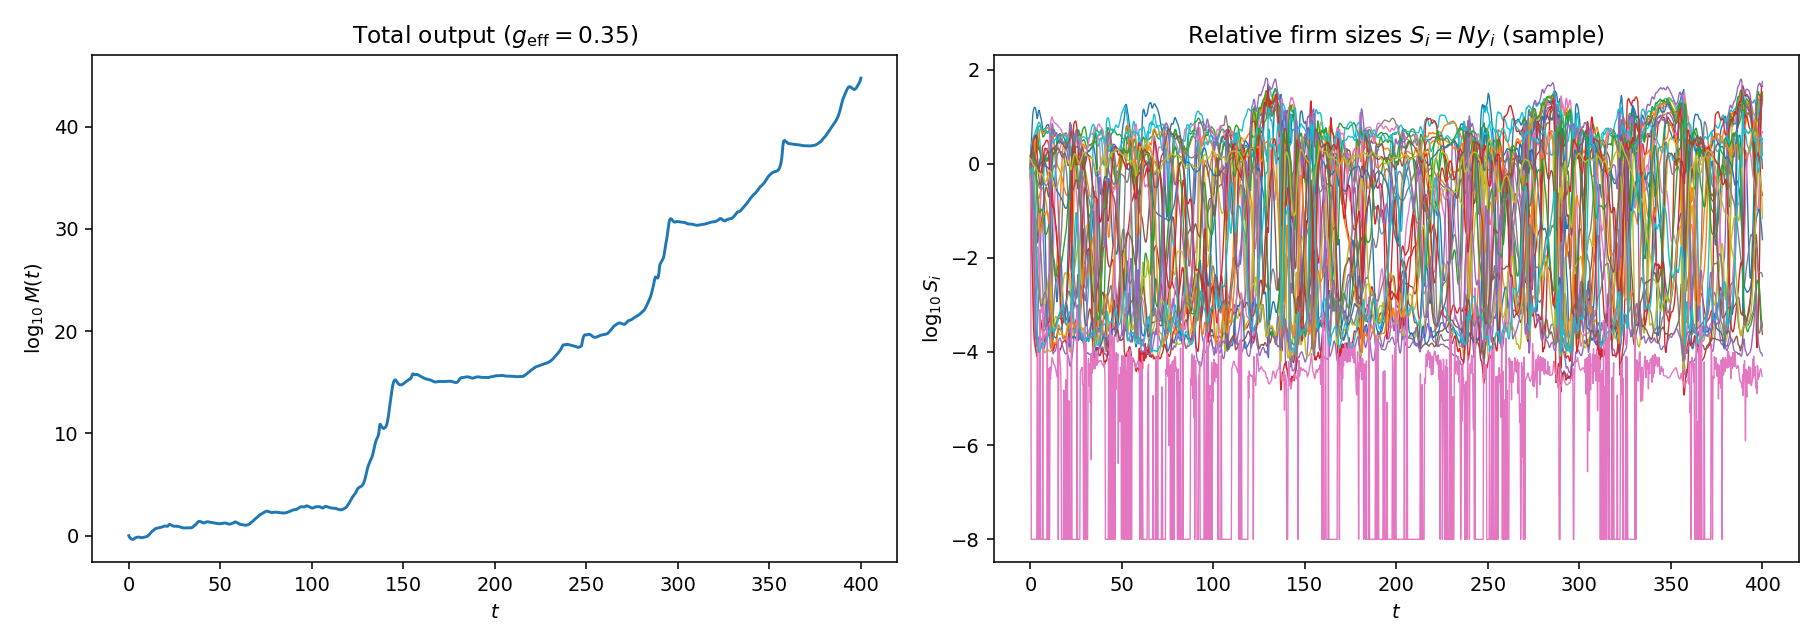
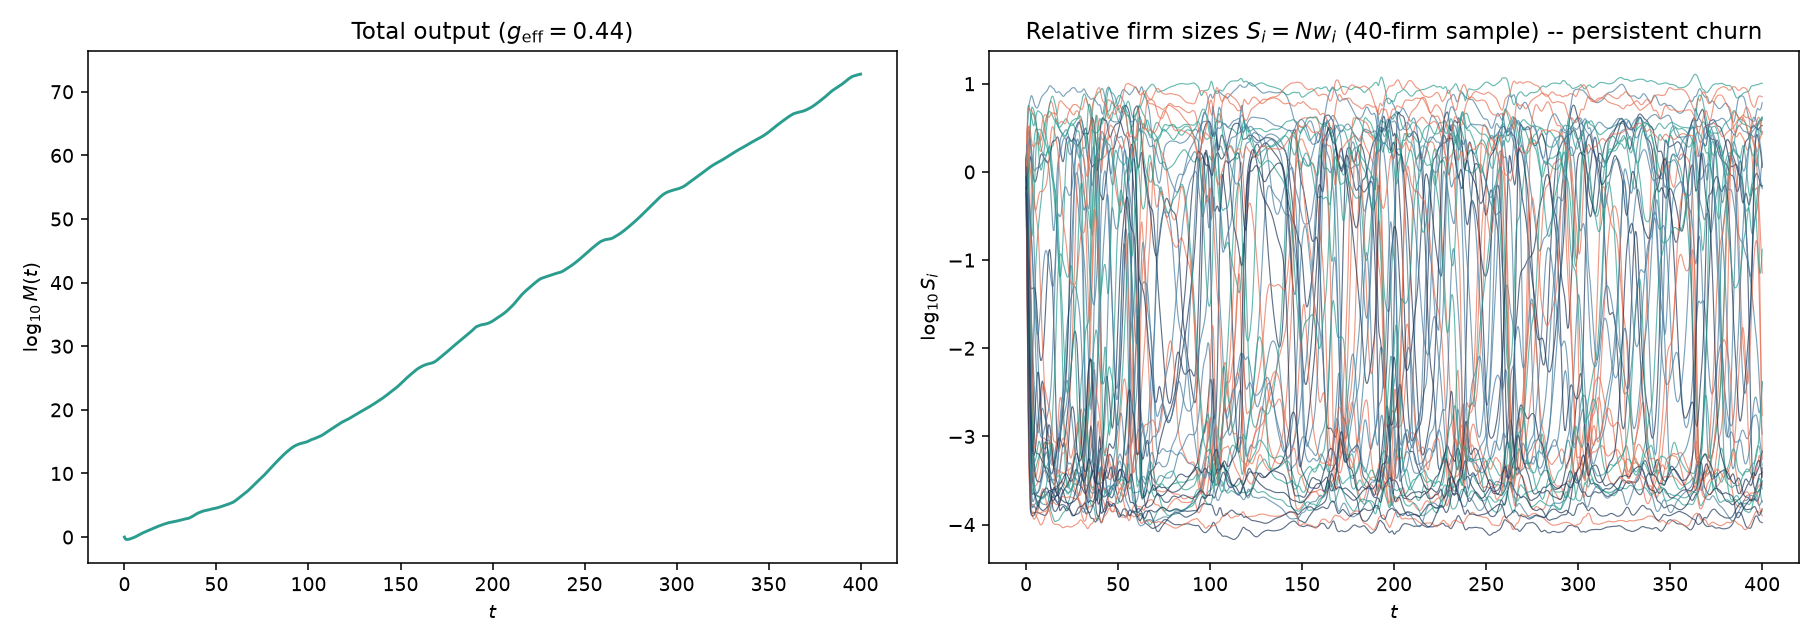
feat(thesis): Fig 2.2 is now the relative-glv own-degree run
Single own-degree run N=3000 (verbatim story.ipynb live-simulation cell),
replacing the mean-degree ch4_plots version. Caption N->3000; FIGURES.md
points at the relative-glv generator (own-degree).

diff --git a/thesis/chapters/model.tex b/thesis/chapters/model.tex
@@ -1,199 +1,193 @@
 \chapter{The model}
 \label{chap:growing}
 
-We model the economy as a network of interacting firms evolving by Generalized
-Lotka--Volterra dynamics. Each firm $i$ carries a size $x_i \ge 0$ that grows
-logistically and is coupled to the others through a signed interaction matrix,
+We model the economy as a network of interacting firms whose sizes evolve by Generalized
+Lotka--Volterra dynamics. The standard form of these dynamics cannot represent a growing
+economy, and this chapter builds the model that can by changing the standard form one step at a
+time, fixing each defect as it appears. The result is then analysed in
+Section~\ref{sec:model-phases}, where we locate the growing, fluctuating regime in which the
+firm-growth statistics of Chapter~\ref{chap:firmgrowth} are measured.
+
+\section{From Lotka--Volterra to the relative model}
+\label{sec:relative-model}
+
+We take as our starting point the Generalized Lotka--Volterra (GLV) system. Each firm $i$
+carries a size $x_i \ge 0$ that grows logistically and is coupled to the others through a signed
+interaction matrix,
 \begin{equation}
     \dot{x}_i = x_i \left( 1 - x_i + (Wx)_i \right),
     \label{eq:abs-glv}
 \end{equation}
-with $W_{ij} = A_{ij}\,\alpha_{ij}$ on a sparse configuration-model graph and
-$\alpha_{ij} = \mu/C + (\sigma/\sqrt{C})\,z_{ij}$, so that $\mu$ sets the mean
-interaction, cooperative for $\mu > 0$ and competitive for $\mu < 0$, and $\sigma$ its
-disorder.
+with $W_{ij} = A_{ij}\,\alpha_{ij}$ on a sparse configuration-model graph. Here $A_{ij}$ is the
+adjacency matrix of the graph, $1$ where firms $i$ and $j$ are connected and $0$ otherwise, and
+$C$ is the mean degree. The coupling strengths are
+$\alpha_{ij} = \mu/C + (\sigma/\sqrt{C})\,z_{ij}$, where the $z_{ij}$ are independent standard
+Gaussian variables, drawn once for each graph and then held fixed, the quenched disorder of the
+model. So $\mu$ sets the mean interaction, cooperative for $\mu > 0$ and competitive for
+$\mu < 0$, and $\sigma$ its disorder.
 
-Equation~\eqref{eq:abs-glv} cannot serve as it stands as a model of a growing economy,
-for two reasons. First, it carries an absolute scale of size that an economy does not
-have: the self-limitation $-x_i$ caps an isolated firm at $x_i = 1$, and the quadratic
-interaction fixes once and for all the size at which growth, competition and
-self-limitation balance. A real economy has no such reference size, its output having
-grown by orders of magnitude over two centuries while the distribution of firm sizes and
-the statistics of their growth stayed essentially stationary, so the dynamics should be
-invariant under a rescaling $x \to c\,x$ of the whole economy, which \eqref{eq:abs-glv}
-is not. Held at its cooperative critical point the absolute model grows without bound,
-but through a finite-time blow-up of the total abundance rather than steady growth
-(Appendix~\ref{chap:rescaling}). Second, even there it delivers only one of the two
-firm-growth facts: it reproduces the fat-tailed growth-rate distribution on
-heterogeneous graphs, but its size--variance relation is not a stationary law, only a
-transient traced out as an arbitrary initial condition relaxes onto the critical
-attractor, after which every growth rate vanishes (Appendix~\ref{chap:results}).
-Recovering a stationary size--variance law needs a state that keeps fluctuating rather
-than relaxing.
+Equation~\eqref{eq:abs-glv} cannot serve as it stands, and it fails for two reasons. First, it carries an absolute scale of size that an
+economy does not have. The self-limitation $-x_i$ caps an isolated firm at $x_i = 1$, and the
+quadratic interaction fixes once and for all the size at which growth, competition and
+self-limitation balance. A real economy has no such reference size. Its output has grown by
+orders of magnitude over two centuries while the distribution of firm sizes and the statistics
+of their growth stayed essentially stationary, so the dynamics should be invariant under a
+rescaling $x \to c\,x$ of the whole economy, which \eqref{eq:abs-glv} is not. Held at its
+cooperative critical point the absolute model does grow without bound, but through a finite-time
+blow-up of the total abundance rather than steady growth. Second, even at that point it delivers
+only one of the two firm-growth facts. It reproduces the fat-tailed growth-rate distribution on
+heterogeneous graphs, but its size--variance relation is not a stationary law, only a transient
+traced out as an arbitrary initial condition relaxes onto the critical attractor, after which
+every growth rate vanishes. We need, then, two things the absolute model lacks, invariance under
+rescaling and a state that keeps fluctuating rather than relaxing.
 
-This chapter makes one change to \eqref{eq:abs-glv} that cures both problems at once: we
-let the self-limitation and the interactions act on the size of a firm relative to the
-average firm. The economy then grows exponentially without ever blowing up, and in the
-strongly disordered regime its composition never settles but keeps churning, the
-persistently fluctuating state we need. We measure the two firm-growth facts in that
-state, find both present and stationary, and show that switching off the disorder
-removes them, which places their origin in the interactions themselves.
-
-\section{Relative interactions and steady growth}
-\label{sec:relative-model}
-
-We restore the invariance by letting the self-limitation and the interactions act on the
-abundance of a firm relative to the average firm $m = M/N = \langle x\rangle$ rather than
-on its absolute abundance. Keeping the same interaction matrix $W$, the model becomes
+Both follow from a single change. We let the self-limitation and the interactions act on the
+size of a firm relative to the average firm $m = M/N = \langle x\rangle$ rather than on its
+absolute size. Keeping the same interaction matrix $W$, the model becomes
 \begin{equation}
     \dot{x}_i = x_i \left( 1 - \frac{x_i}{m} + \frac{(Wx)_i}{m} \right),
     \qquad m = \frac{1}{N}\sum_j x_j .
     \label{eq:relative-glv}
 \end{equation}
-The only change from \eqref{eq:abs-glv} is the two factors of $1/m$, but it makes the
-right-hand side homogeneous of degree one in $x$: under $x \to c\,x$ the mean $m$ scales
-in the same way, the ratios $x_i/m$ and $(Wx)_i/m$ are unchanged, and the whole equation
-simply rescales, so that if $x(t)$ is a solution then so is $c\,x(t)$. The economy no
-longer has a preferred size. The change is also the economically natural one: a
-competitor's pressure on firm $i$ is now set by its market share $x_j/m$ rather than by
-its absolute size, and a firm's own crowding is measured against the typical firm rather
-than against a fixed ceiling, so what drives the dynamics is relative standing in the
-market, as it should be. The intrinsic Malthusian rate $1$ is left untouched and remains
-the engine of growth, while the interactions, now made relative, only regulate it. We
-operate at a competitive mean $\mu$ and at a disorder $\sigma$ above the chaotic
-threshold $\sigma_c = \sqrt{2}$ \citep{diederich1989}; the operating point is specified
-with the measurements below.
+The only change from \eqref{eq:abs-glv} is the two factors of $1/m$, but it makes the right-hand
+side homogeneous of degree one in $x$. Under $x \to c\,x$ the mean $m$ scales in the same way,
+the ratios $x_i/m$ and $(Wx)_i/m$ are unchanged, and the whole equation simply rescales, so that
+if $x(t)$ is a solution then so is $c\,x(t)$. The economy no longer has a preferred size. The
+change is also the economically natural one. A competitor's pressure on firm $i$ is now set by
+its market share $x_j/m$ rather than by its absolute size, and a firm's own crowding is measured
+against the typical firm rather than against a fixed ceiling, so what drives the dynamics is
+relative standing in the market. The intrinsic Malthusian rate $1$ is left untouched and remains
+the engine of growth, while the interactions, now made relative, only regulate it.
 
-The disorder normalization deserves writing out, because it is what controls the
-firm-growth statistics below. As introduced above the couplings are normalized by the
-global mean degree $C$; on a heterogeneous graph a second, per-firm choice is available,
-normalizing each firm's couplings by its own degree $k_i$,
-\begin{equation}
-    \alpha_{ij} = \frac{\mu}{C} + \frac{\sigma}{\sqrt{C}}\,z_{ij}
-    \quad\text{(mean degree)},
-    \qquad
-    \alpha_{ij} = \frac{\mu}{k_i} + \frac{\sigma}{\sqrt{k_i}}\,z_{ij}
-    \quad\text{(own degree)},
-    \label{eq:normalizations}
-\end{equation}
-with $z_{ij}$ standard Gaussian and $k_i$ the degree of firm $i$. Under the mean-degree
-normalization a firm's idiosyncratic field grows louder the more competitors it has, its
-variance rising with its degree; the own-degree normalization is the natural per-fan-in
-scaling, in which both the mean pressure and the disorder are shared over a firm's own
-neighbours, so that every firm carries a field of the same variance whatever its
-connectivity. The two coincide on a regular graph, where
-every firm has the mean degree, which is the case the mean-field theory of
-Appendix~\ref{app:dmft} solves; they differ, consequentially, on the heterogeneous graphs
-we use for the measurements. The own-degree normalization reproduces the higher-moment
-structure of the data but gives a size--variance exponent about three times too steep,
-while the global one matches the size--variance magnitude at a finite economy size but
-loses that higher-moment structure, and no single choice gives both. We therefore
-privilege neither: we report the firm-growth statistics under both normalizations and
-treat the trade-off between them as a result in its own right, returning to it in
-Sections~\ref{sec:growing-finite-size} and~\ref{sec:growing-multiscaling}.
-
-The same point appears formally in the equation for the total. Writing $x_i = M y_i$
-with $y$ on the simplex, and using the shorthands of Appendix~\ref{chap:rescaling}, the
-sum of \eqref{eq:relative-glv} over $i$ gives
+Two consequences of this change set up the rest of the model. The first is steady growth. Writing
+$x_i = M y_i$ with $y$ on the simplex and the shorthands
+$y^{\!\top} W y = \sum_{i,j} y_i W_{ij} y_j$, $y^{\!\top} y = \sum_i y_i^2$, the sum of
+\eqref{eq:relative-glv} over $i$ gives
 \begin{equation}
     \dot{M} = M \left[\, 1 + N\big( y^{\!\top} W y - y^{\!\top} y \big)\,\right]
-            \equiv M\, g_{\mathrm{eff}}(y),
+            \equiv M\, g_{\mathrm{eff}}(y).
     \label{eq:Mdot-relative}
 \end{equation}
-where the right-hand side of the absolute model \eqref{eq:app-Mdot} instead carried a
-term in $M^2$, the quadratic feedback responsible for the finite-time singularity.
-Dividing the interactions by $m$ removes one power of $M$: the quadratic term becomes
-linear, and \eqref{eq:Mdot-relative} is the equation of plain exponential growth,
-$M(t) \sim e^{g_{\mathrm{eff}} t}$, with no singularity. In the operating regime
-$g_{\mathrm{eff}}$ settles to a small positive constant, so the economy grows at a steady
-rate over unbounded physical time.
+Summing the absolute model \eqref{eq:abs-glv} instead leaves a right-hand side with a term in
+$M^2$, the quadratic feedback responsible for the finite-time singularity. Dividing the
+interactions by $m$ removes one power of $M$, the quadratic term becomes linear, and
+\eqref{eq:Mdot-relative} is the equation of plain exponential growth,
+$M(t) \sim e^{g_{\mathrm{eff}} t}$, with no singularity. In the regime we work in
+$g_{\mathrm{eff}}$ settles to a small positive constant, so the economy grows at a steady rate
+over unbounded physical time.
 
-The shape obeys, again from \eqref{eq:relative-glv} and the quotient rule,
+The second consequence concerns the shape. From \eqref{eq:relative-glv} and the quotient rule
+the shares obey $\dot{y}_i = y_i ( f_i - \langle f \rangle )$ with the linear fitness
+$f_i = 1 - N y_i + N (Wy)_i$ and $\langle f \rangle = \sum_j y_j f_j = g_{\mathrm{eff}}$. This is
+a replicator equation, the canonical description of frequency-dependent selection, in which a
+firm gains share precisely when its fitness exceeds the market average $\langle f \rangle$, and
+it is the standard correspondence between Lotka--Volterra and replicator dynamics
+\citep{hofbauer81}. Because the relative model does not blow up, it is written in the same
+physical time $t$ in which $M$ grows, with no time rescaling. Above the disorder threshold
+$\sigma_c = \sqrt{2}$ \citep{diederich1989} the replicator flow does not relax to a fixed point
+but stays chaotic, so the growth rates $\dot y_i / y_i = f_i - \langle f\rangle$ never vanish.
+This is the persistently fluctuating state we needed.
+
+The chaotic flow has one feature that has to be controlled. Left to itself it drives some shares
+arbitrarily close to zero, and a share that reaches zero stays there, so diversity erodes and the
+state never becomes stationary. As is standard in the disordered Lotka--Volterra literature
+\citep{bunin2017,roy2020} we add a small immigration term that pulls each share gently toward
+$1/N$, setting a floor of rarity below which a firm cannot fall and preventing exact extinction.
+The shape dynamics we integrate are then
 \begin{equation}
-    \dot{y}_i = y_i \left( f_i - \langle f \rangle \right),
-    \qquad f_i = 1 - N y_i + N (Wy)_i,
-    \qquad \langle f \rangle = \sum_j y_j f_j = g_{\mathrm{eff}},
+    \begin{gathered}
+        \dot{y}_i = y_i \left( f_i - \langle f \rangle \right) + \lambda\!\left( \tfrac{1}{N} - y_i \right), \\
+        f_i = 1 - N y_i + N (Wy)_i,
+        \qquad \langle f \rangle = \sum_j y_j f_j = g_{\mathrm{eff}},
+    \end{gathered}
     \label{eq:replicator}
 \end{equation}
-which is a replicator equation with the linear fitness $f$, the canonical description of
-frequency-dependent selection, in which a firm gains share precisely when its fitness
-exceeds the market average $\langle f \rangle$, and is exactly the correspondence between
-Lotka--Volterra and replicator dynamics used in Appendix~\ref{chap:rescaling}
-\citep{hofbauer81}. Two features distinguish
-\eqref{eq:replicator} from the rescaled dynamics of that appendix. First, it is written
-in physical time $t$, not in a stretched time $\tau$: because the relative model does
-not blow up, no time rescaling is needed, and $M(t)$ grows exponentially in the same
-$t$ in which the firms are observed. Second, in the disordered regime $\sigma > \sigma_c$
-the replicator flow \eqref{eq:replicator} does not relax to a fixed point but remains
-chaotic, so the growth rates $\dot y_i / y_i = f_i - \langle f\rangle$ never vanish.
-This is the persistently fluctuating state identified above as the missing ingredient.
-As in the literature \citep{bunin2017,roy2020} we add a small
-immigration term that pulls each share gently toward $1/N$, which sets a floor of rarity
-and prevents firms from reaching exact extinction; we use a rate $\lambda = 10^{-3}$.
+with a rate $\lambda = 10^{-3}$. The immigration term conserves $\sum_i y_i = 1$, so it leaves
+the growth equation \eqref{eq:Mdot-relative} untouched; in size-space it is the scale-invariant
+influx $\dot{x}_i = x_i ( 1 - x_i/m + (Wx)_i/m ) + \lambda(m - x_i)$, an entry of small firms at a
+rate set by the size of the economy itself.
 
-We integrate \eqref{eq:replicator} together with $\mathrm{d}\ln M/\mathrm{d}t =
-g_{\mathrm{eff}}$ directly in physical time, keeping the shape on the bounded simplex and
-the scale in logarithm so nothing overflows however large $M$ becomes; the explicit
-solver and its cost are specified in Appendix~\ref{app:numerics}.
+One element of the model is still unspecified, the disorder normalization, and it is what
+controls the firm-growth statistics of the next chapter, so we set it out now. On a heterogeneous
+graph the natural per-firm choice normalizes each firm's couplings by its own degree $k_i$,
+\begin{equation}
+    \alpha_{ij} = \frac{\mu}{k_i} + \frac{\sigma}{\sqrt{k_i}}\,z_{ij},
+    \label{eq:normalizations}
+\end{equation}
+with $k_i$ the degree of firm $i$ and the $z_{ij}$ the same standard Gaussian disorder as above.
+This is the per-fan-in scaling,
+in which both the mean pressure and the disorder are shared over a firm's own neighbours, so that
+every firm carries a field of the same variance whatever its connectivity. On a regular graph it
+reduces to the global normalization by the common degree, which is the case the mean-field theory
+of Appendix~\ref{app:dmft} solves; the two differ on the heterogeneous graphs we use for the
+measurements, where the own-degree choice is the one that keeps the disorder field comparable
+across firms of unequal connectivity.
 
-Before turning to the firm-growth statistics it helps to see where in parameter space
-this fluctuating, growing state lives. Figure~\ref{fig:phase-diagram} maps the behaviour
-of \eqref{eq:relative-glv} over the plane of the mean interaction $\mu$ and the disorder
-$\sigma$, classified from the late-time dynamics of many graph realizations. Two genuine
-transitions organize it. The dynamical threshold $\sigma_c = \sqrt{2}$ separates a frozen
-regime below, where the shape relaxes to a fixed point and the growth rates vanish, from
-the chaotic regime above, where it never settles. Cutting across it, the line
-$g_{\mathrm{eff}} = 0$ separates a growing economy from a shrinking one. Where the
-competition is strong and the disorder high, coexistence collapses and the dynamics
-either condense onto a few firms or grow explosively. The firm-growth statistics of this
-chapter belong to the chaotic, growing band, the wedge bounded below by $\sigma_c$, on
-one side by the $g_{\mathrm{eff}} = 0$ line, and on the other by the condensed corner.
-The key point is that this is an extended region rather than an isolated point: the model
-reproduces the empirical facts across a band of parameters, so what follows describes the
+We integrate \eqref{eq:replicator} together with $\mathrm{d}\ln M/\mathrm{d}t = g_{\mathrm{eff}}$
+directly in physical time, keeping the shape on the bounded simplex and the scale in its
+logarithm so that nothing overflows however large $M$ becomes; the explicit solver and its cost
+are specified in Appendix~\ref{app:numerics}.
+
+\section{Phases of the model}
+\label{sec:model-phases}
+
+Before measuring the firm-growth statistics it helps to see where in parameter space the
+growing, fluctuating state lives. Figure~\ref{fig:phase-diagram} maps the behaviour of the model
+over the plane of the mean interaction $\mu$ and the disorder $\sigma$, classified from the
+late-time dynamics of many graph realizations. Two genuine transitions organize it. The
+dynamical threshold $\sigma_c = \sqrt{2}$ separates a frozen regime below, where the shape
+relaxes to a fixed point and the growth rates vanish, from the chaotic regime above, where it
+never settles. Cutting across it, the line $g_{\mathrm{eff}} = 0$ separates a growing economy
+from a shrinking one. Where the competition is strong and the disorder high, coexistence
+collapses and the dynamics either condense onto a few firms or grow explosively. The firm-growth
+statistics of this thesis belong to the chaotic, growing band, the wedge bounded below by
+$\sigma_c$, on one side by the $g_{\mathrm{eff}} = 0$ line, and on the other by the condensed
+corner. This is an extended region rather than an isolated point, so what follows describes the
 behaviour of the model and not a single tuned operating point.
 
 \begin{figure}[htbp]
     \centering
     \includegraphics[width=\linewidth]{phase_diagram.png}
-    \caption{Phase diagram of the relative model \eqref{eq:relative-glv} over the mean
-    interaction $\mu$ (competitive for $\mu < 0$) and the disorder $\sigma$, classified
-    from the late-time dynamics ($N = 4000$, fifteen realizations per cell). Below
-    $\sigma_c = \sqrt{2}$ (red dashed) the shape relaxes and nothing fluctuates; above it
-    the dynamics are chaotic. The solid line is the growth boundary
-    $g_{\mathrm{eff}} = 0$, with $g_{\mathrm{eff}}$ magnitude contours dotted. The
-    firm-growth statistics are measured in the chaotic, growing band (teal), bounded by
-    $\sigma_c$, the $g_{\mathrm{eff}} = 0$ line, and the condensed or explosive corner.
-    The band is an extended region, not a single point.}
+    \caption{Phase diagram of the relative model \eqref{eq:relative-glv} under the
+    own-degree normalization, over the mean interaction $\mu$ (competitive for $\mu < 0$)
+    and the disorder $\sigma$, classified from the late-time dynamics ($N = 4000$, a
+    $20 \times 20$ grid with ten realizations per cell). At low disorder the shape relaxes and nothing fluctuates
+    (frozen). Above it the dynamics are chaotic, and the solid black line marks the growth
+    boundary $g_{\mathrm{eff}} = 0$, which separates the shrinking region ($g_{\mathrm{eff}}
+    < 0$) from the fluctuating, growing band in which the firm-growth statistics are
+    measured (blue, labelled MSB). The band is bounded below by the freezing line, on the
+    competitive side by $g_{\mathrm{eff}} = 0$, and in the strong-disorder corner by the
+    explosive, divergent region. The star marks the operating point $\mu = -1.76$,
+    $\sigma = 1.75$. The band is an extended region, not a single point.}
     \label{fig:phase-diagram}
 \end{figure}
 
 This phase structure is not merely observed but can be derived. The relative model
-\eqref{eq:relative-glv} is a disordered replicator equation, and its dynamical mean-field
-theory, worked out in Appendix~\ref{app:dmft}, reduces the $N$-firm dynamics to a single
-representative firm in a self-consistent Gaussian field. On a regular graph it gives the
-chaos onset in closed form, $\sigma_c = \sqrt{2}$, independent of $\mu$: the mean
-interaction enters every firm's fitness as the same uniform shift, so it cancels from the
-replicator and only sets the level of the growth rate $g_{\mathrm{eff}}$, moving the
-$g_{\mathrm{eff}} = 0$ line but not the chaos threshold. Below $\sigma_c$ the relaxed
-fixed point is the survivor law of the disordered Lotka--Volterra model with the carrying
-capacity renormalized by the growth rate, and a direct simulation on the matching
-ensemble confirms the predicted growth rate and surviving fraction to about one percent,
-the fluctuations switching on exactly at $\sigma_c$. The fluctuating phase itself, where
-the firm-growth statistics live, lies beyond this static fixed-point theory and would need
-its two-time extension; we measure it directly instead.
+\eqref{eq:relative-glv} is a disordered replicator equation, and its dynamical mean-field theory,
+worked out in Appendix~\ref{app:dmft}, reduces the $N$-firm dynamics to a single representative
+firm in a self-consistent Gaussian field. On a regular graph it gives the chaos onset in closed
+form, $\sigma_c = \sqrt{2}$, independent of $\mu$. The mean interaction enters every firm's
+fitness as the same uniform shift, so it cancels from the replicator and only sets the level of
+the growth rate $g_{\mathrm{eff}}$, moving the $g_{\mathrm{eff}} = 0$ line but not the chaos
+threshold. Below $\sigma_c$ the relaxed fixed point is the survivor law of the disordered
+Lotka--Volterra model with the carrying capacity renormalized by the growth rate, and a direct
+simulation on the matching ensemble confirms the predicted growth rate and surviving fraction to
+about one percent, the fluctuations switching on exactly at $\sigma_c$. The fluctuating phase
+itself, where the firm-growth statistics live, lies beyond this static fixed-point theory and
+would need its two-time extension; we measure it directly instead.
 
-Figure~\ref{fig:growing-churn} shows a single run in this regime. The total abundance
-(left) climbs as a straight line in $\log M$ over the whole integration, the steady
-exponential growth of \eqref{eq:Mdot-relative}, with no sign of a blow-up. The relative
-firm sizes $S_i = N y_i$ (right) do not settle: after an initial transient they keep
-exchanging rank and spanning orders of magnitude, the persistent chaos of the
-$\sigma > \sigma_c$ phase. The economy grows while its composition keeps turning over.
+Figure~\ref{fig:growing-churn} shows a single run in this regime. The total abundance (left)
+climbs as a straight line in $\log M$ over the whole integration, the steady exponential growth
+of \eqref{eq:Mdot-relative}, with no sign of a blow-up. The relative firm sizes $S_i = N y_i$
+(right) do not settle; after an initial transient they keep exchanging rank and spanning orders
+of magnitude, the persistent chaos of the $\sigma > \sigma_c$ phase. The economy grows while its
+composition keeps turning over.
 
 \begin{figure}[htbp]
     \centering
     \includegraphics[width=\linewidth]{growing_growth_churn.png}
     \caption{A single run of the relative model \eqref{eq:relative-glv} at $\mu = -1.76$,
-    $\sigma = 1.75$, $\lambda = 10^{-3}$ on a power-law graph with $N = 6400$. \panel{Left}: the
+    $\sigma = 1.75$, $\lambda = 10^{-3}$ on a power-law graph with $N = 3000$. \panel{Left}: the
     total abundance grows exponentially in physical time, $\log_{10} M(t)$ rising
     linearly, with no finite-time divergence. \panel{Right}: a sample of relative firm sizes
     $S_i = N y_i$, which keep fluctuating and exchanging rank rather than relaxing to a

diff --git a/thesis/FIGURES.md b/thesis/FIGURES.md
@@ -16,7 +16,7 @@ See `eq:normalizations` in `chapters/model.tex`.
 | thesis figure | normalization | generator |
 |---|---|---|
 | `phase_diagram.png` | **own-degree** | `../relative-glv/scripts/phase_owndeg_fine.py --grid 20 --seeds 10` (20×20 grid, N=4000, 10 seeds, `kind="powerlaw_owndeg"`; copied from `data/phase_owndeg_fine_20x20_10s.png`) |
-| `growing_growth_churn.png` | mean-degree | `glv/growing_glv/ch4_plots.py` |
+| `growing_growth_churn.png` | **own-degree** | `../relative-glv/scripts/plot_growing_growth_churn.py` (single own-degree run N=3000, seed=1; verbatim port of the story.ipynb live-simulation cell) |
 | `growing_stationary_msb.png` | **own-degree** | `../relative-glv/scripts/plot_growing_stationary_msb.py` (size-volatility + tent, single economy N=3000, `kind="powerlaw_owndeg"`, seed=1; verbatim port of the story.ipynb MSB-facts cell) |
 | `growing_trajectories.png` | mean-degree | `glv/growing_glv/ch4_plots.py` (metastability; qualitative, normalization-independent) |
 | `growing_multiscaling.png` | **own-degree** | `../relative-glv/scripts/plot_growing_multiscaling.py` (D2 ζ_q multiscaling, reads `data/msb_conditional.npz` from `msb_conditional.py`; 40 economies) |
